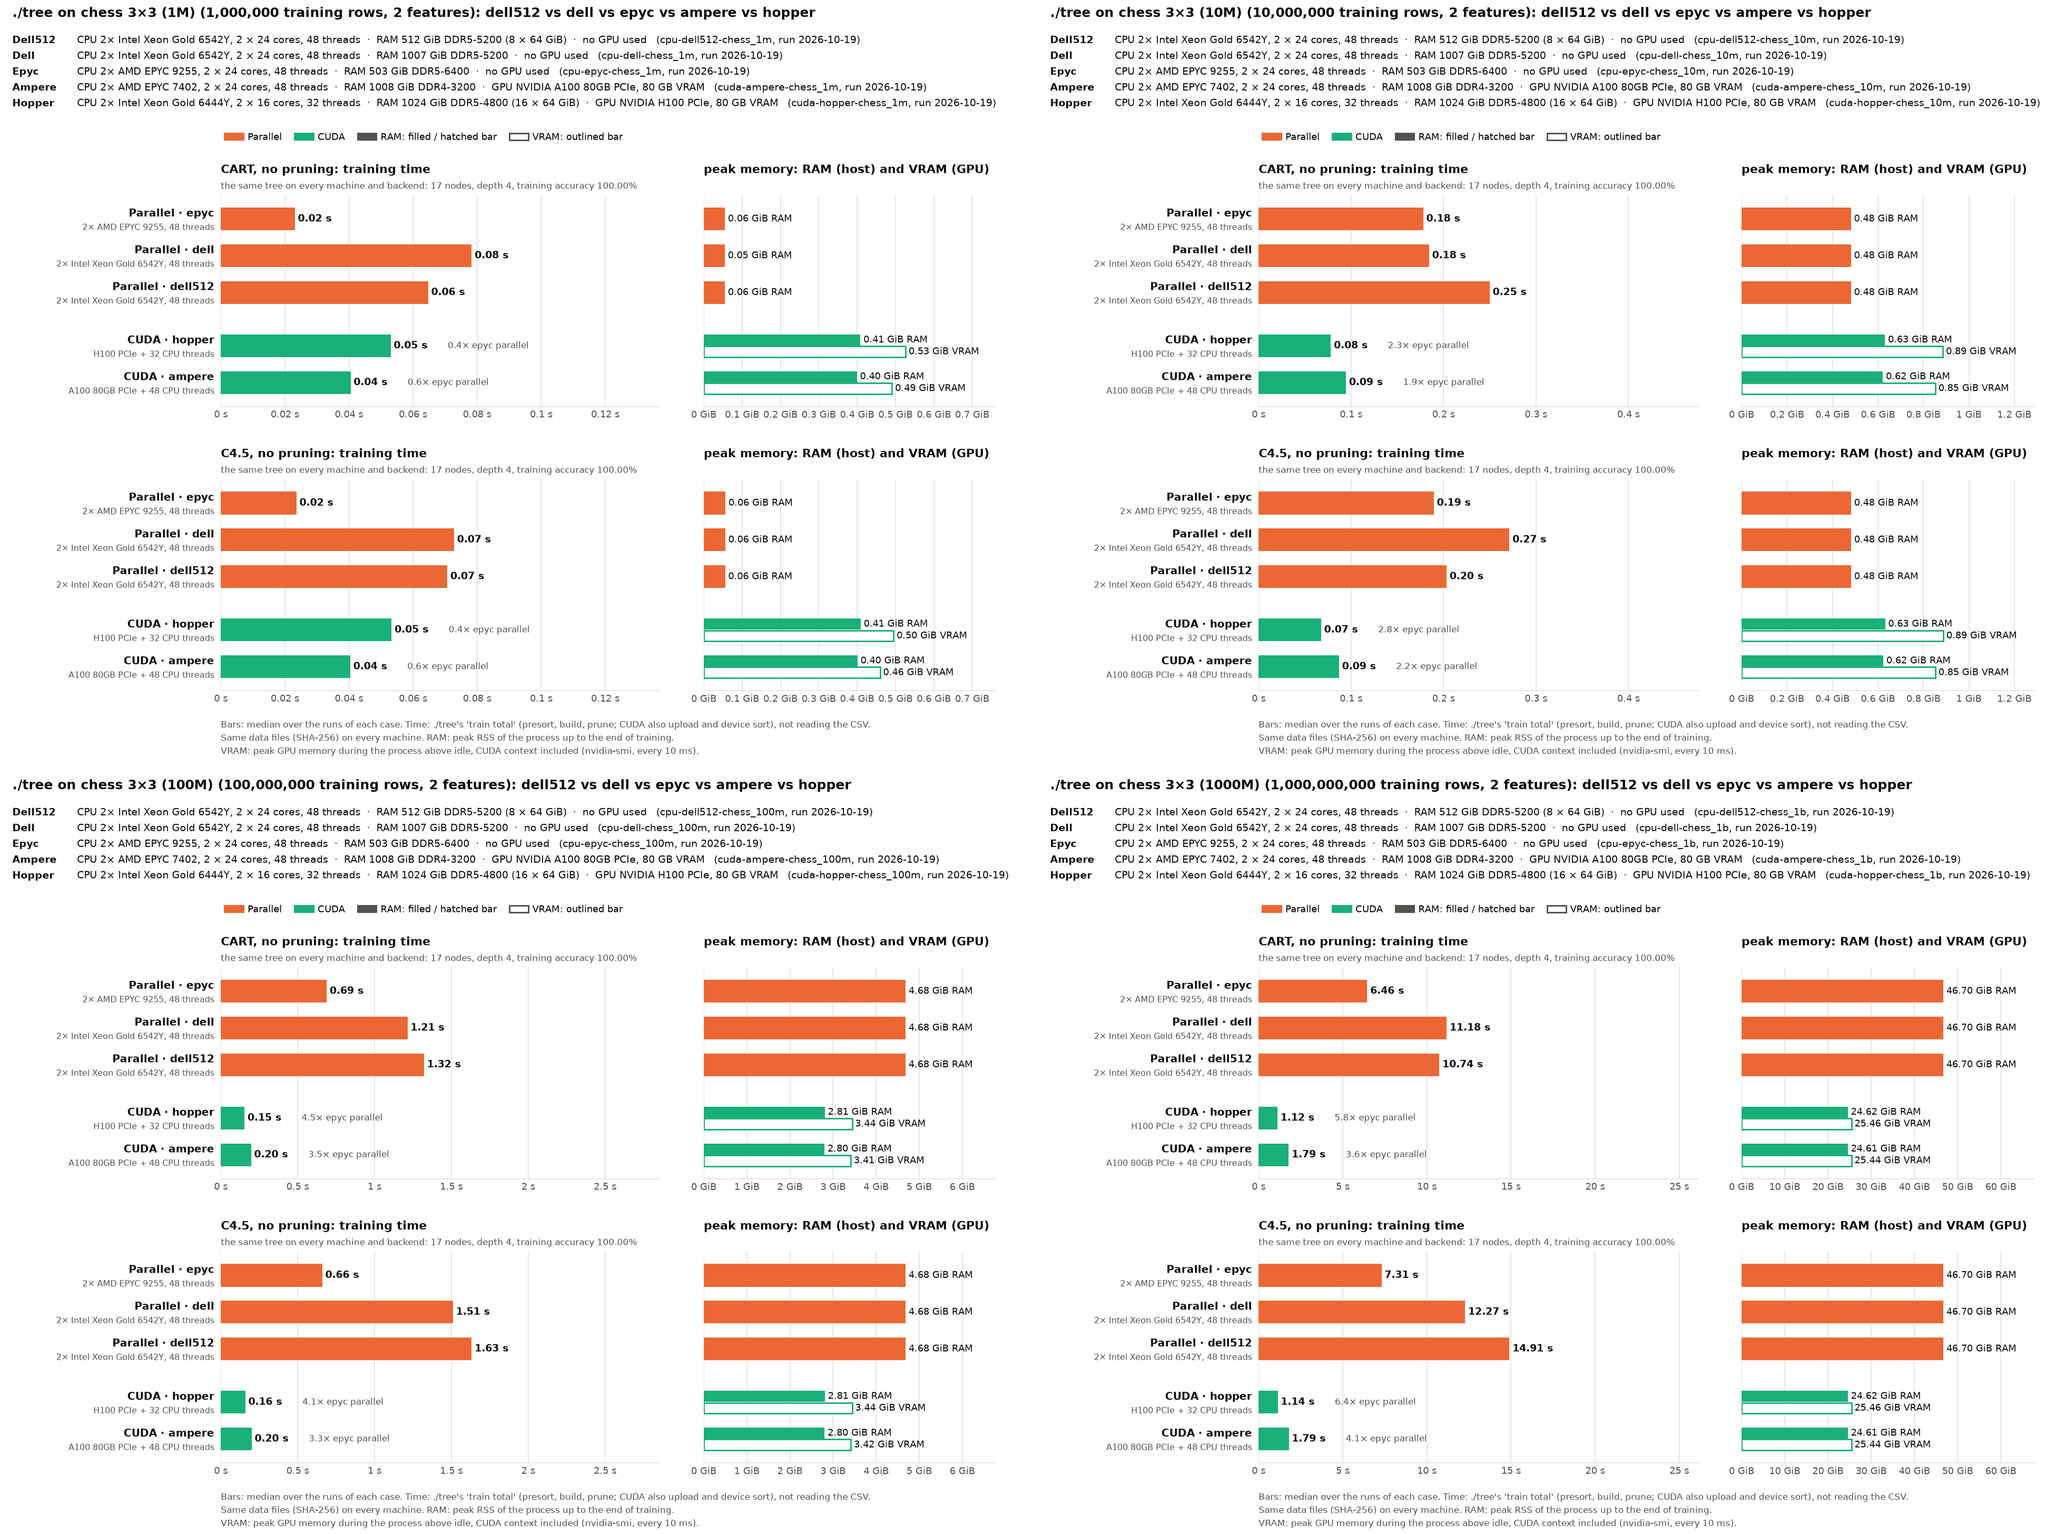
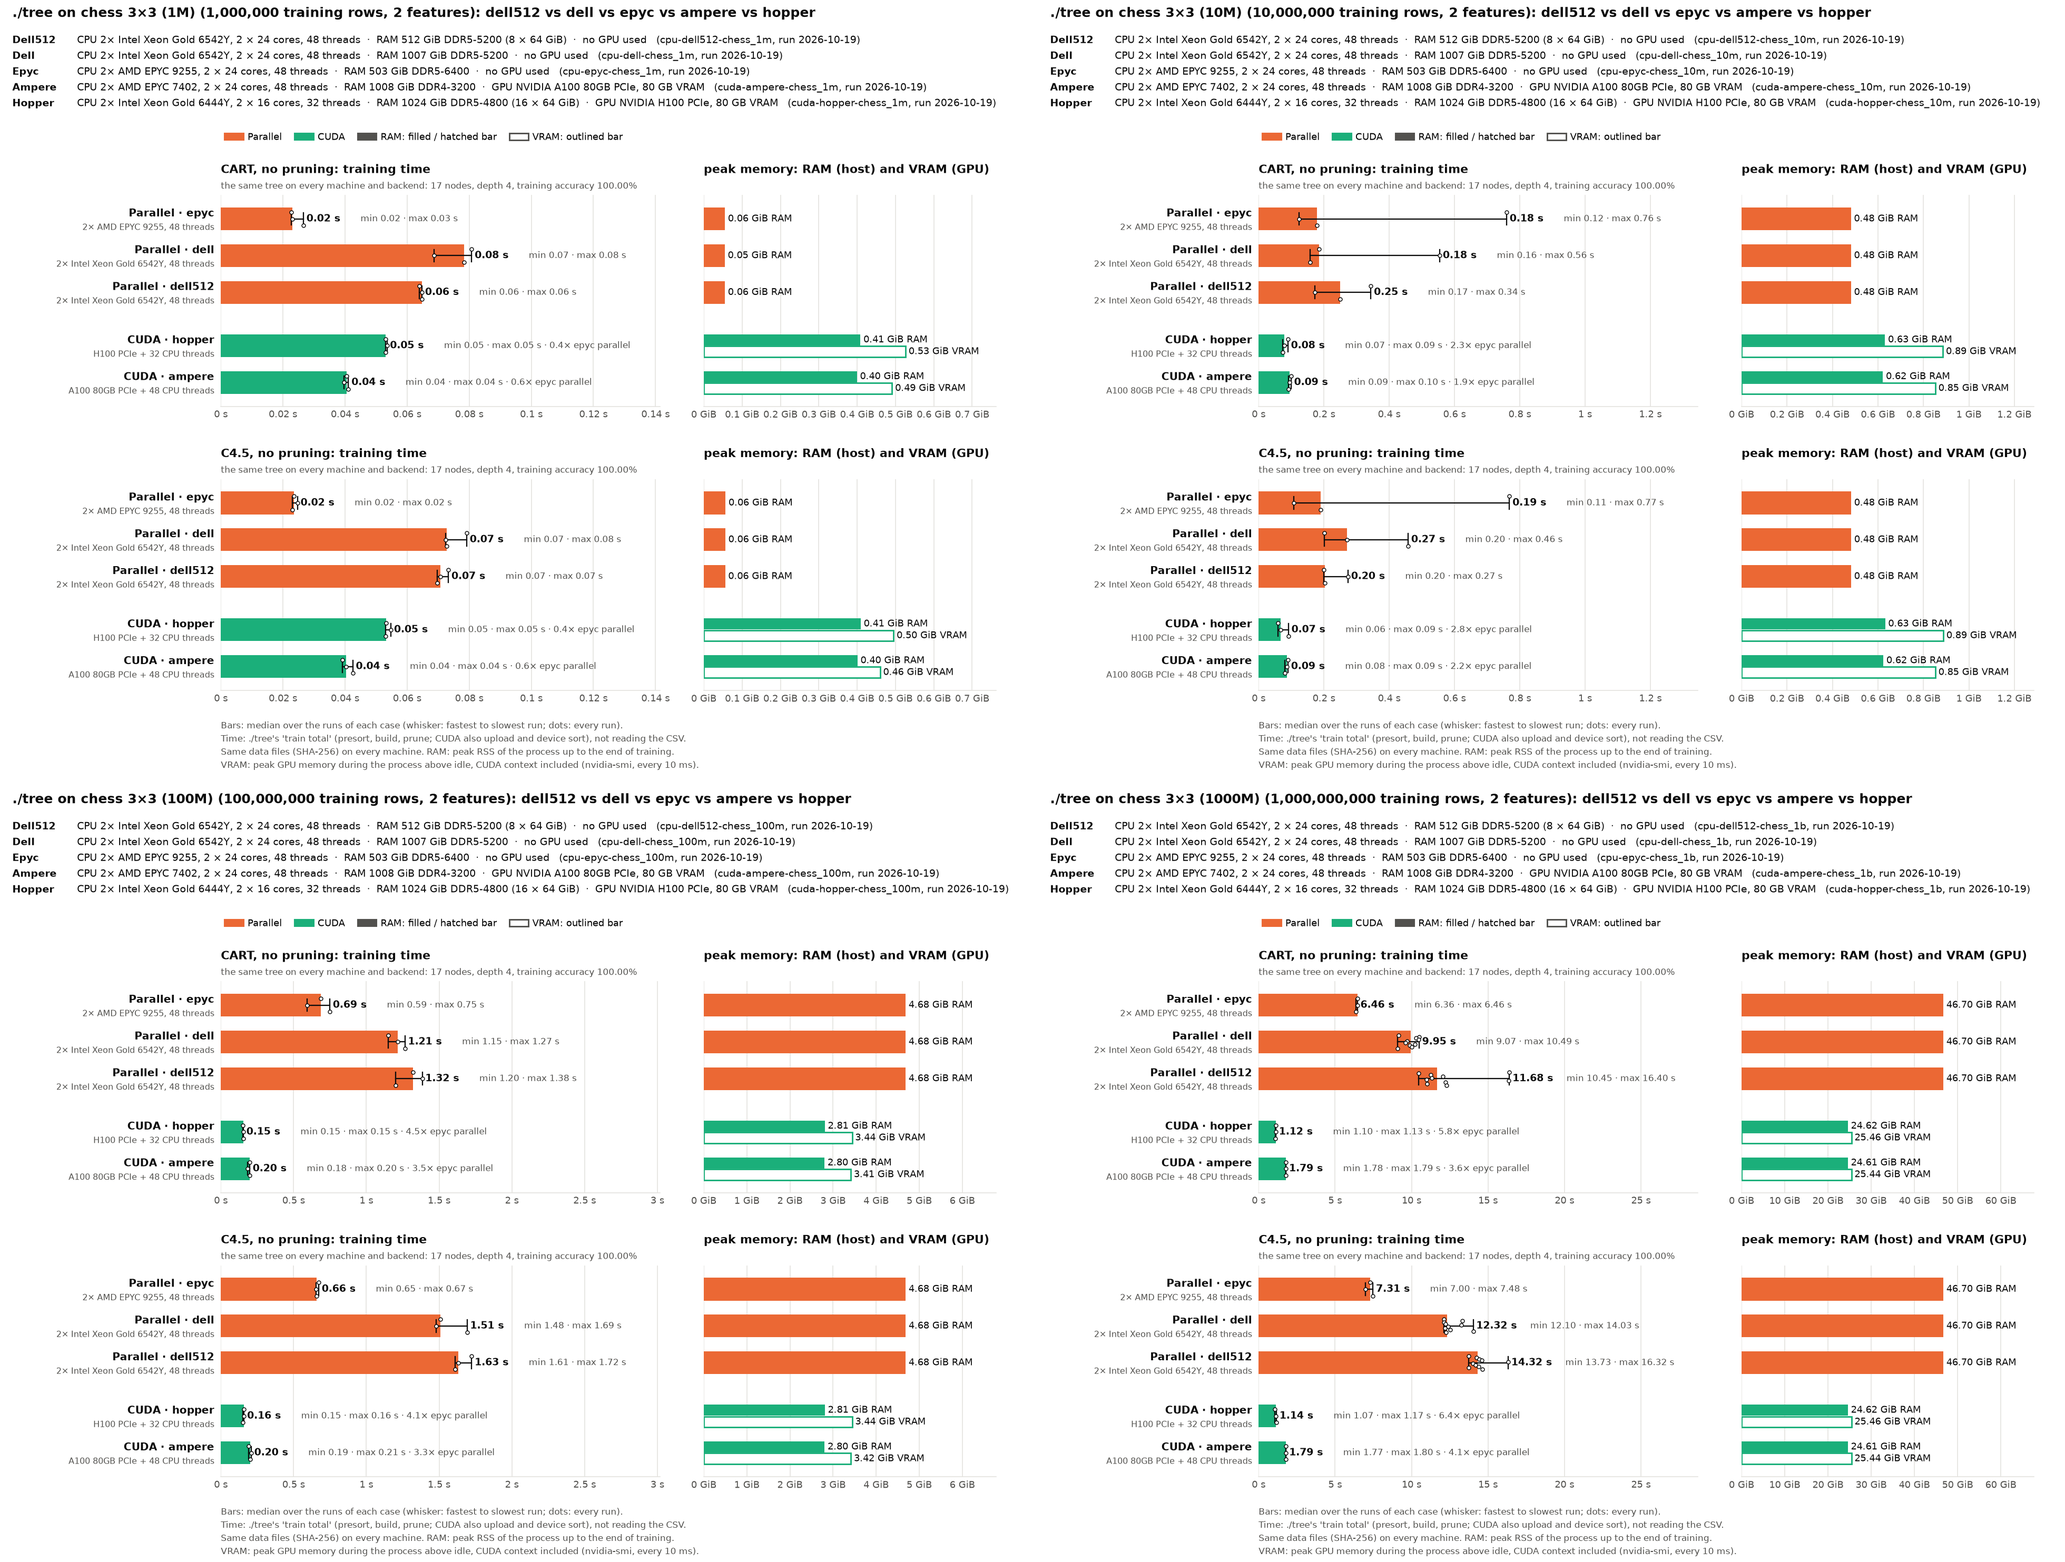
Chess charts with the spread of the runs; dell and dell512 at 1000M from 10 runs
machines_chart.py --spread: a min-max whisker and a dot per run on every
time bar. cluster-chess/chart.png and chart-rows.png take the 10-run
dell-variance results for dell and dell512 at 1000M; BENCHMARK.md's tables
and text follow.

diff --git a/bench/machines_chart.py b/bench/machines_chart.py
@@ -13,6 +13,9 @@ prepared files in plan.json) or did not build the same trees.
   bench/.venv/bin/python bench/machines_chart.py bench/results/cuda-legion-susy \\
       --reference bench/results/cluster-susy-vs-others-cpu/pc  # -> cuda-legion-susy/chart.png
 
+--spread draws on every time bar a whisker from the fastest to the slowest
+run and a dot per run, and writes their min and max.
+
 --more adds the cases of later runs kept in another directory under the same
 run names (e.g. cluster-ecbdl/unpruned/cpu-epyc-ecbdl next to
 cluster-ecbdl/cpu-epyc-ecbdl), so that one chart shows both.
@@ -50,6 +53,7 @@ LEFT = 0.215  # figure fraction left of the panels, for the row labels
 # Result directories are <backend>-<machine>-<dataset>; what to call each machine.
 MACHINES = {"pc": "desktop", "legion": "laptop"}
 MORE = []  # --more: directories with later runs of the same names
+SPREAD = False  # --spread: a min-max whisker and a dot per run on every time bar
 
 
 def sources(run):
@@ -97,6 +101,7 @@ def bars(run, reference):
             out.append({"protocol": protocol, "backend": backend, "hardware": hardware,
                         "run": run, "reference": reference,
                         "time": statistics.median(r["train_seconds"] for r in ok),
+                        "times": [r["train_seconds"] for r in ok],
                         "ram": statistics.median(r["peak_rss_train_bytes"] for r in ok) / 2**30,
                         "vram": statistics.median(gpu) / 2**30 if gpu else None,
                         # Median pruning time, if every run recorded it.
@@ -138,11 +143,15 @@ def main():
     parser.add_argument("--out", type=Path, help="default: <first run>/chart.png")
     parser.add_argument("--protocols", default="cart_alpha,c45",
                         help=f"the protocols to draw, one panel each, of: {', '.join(TITLES)}")
+    parser.add_argument("--spread", action="store_true",
+                        help="draw each time bar's min-max whisker and every run as a dot")
     parser.add_argument("--more", action="append", type=Path, default=[],
                         help="a directory with later runs of the same names, e.g. other "
                         "protocols (repeatable)")
     args = parser.parse_args()
     MORE.extend(args.more)
+    global SPREAD
+    SPREAD = args.spread
     PROTOCOLS.clear()
     PROTOCOLS.update((p, TITLES[p]) for p in args.protocols.split(","))
     runs = list(args.reference) + list(args.runs)
@@ -159,6 +168,7 @@ def main():
     gaps = max(len({e["backend"] for e in entries if e["protocol"] == p}) for p in PROTOCOLS) - 1
     header = 0.42 + 0.2 * len(runs)  # inches of the hardware lines
     footer = 0.18 if any(e["prune"] is not None and not e["reference"] for e in entries) else 0
+    footer += 0.18 if SPREAD else 0  # the footer's line on the whiskers
     # At least three bars high: the row labels take two lines each.
     count = len(PROTOCOLS)
     inches = 1.9 + header + footer + count * 0.58 * max(per_panel + 0.45 * gaps, 3)
@@ -166,11 +176,11 @@ def main():
     # Between the panels: the lower one's title and subtitle and the upper one's
     # tick labels, the same in inches however few bars the panels hold.
     gap = 0.92
-    panels = inches - (header + 1.05) - (1.08 if split else 0.9)
+    panels = inches - (header + 1.05) - (1.08 if split else 0.9) - (0.18 if SPREAD else 0)
     fig, axes = plt.subplots(count, 2, figsize=(13, inches), squeeze=False,
                              gridspec_kw={"width_ratios": [1.5, 1], "wspace": 0.12,
                                           "hspace": gap / ((panels - (count - 1) * gap) / count)})
-    max_time = max(e["time"] for e in entries)
+    max_time = max(max(e["times"]) if SPREAD else e["time"] for e in entries)
     max_gib = max(max(e["ram"], e["vram"] or 0) for e in entries)
     for row, protocol in enumerate(PROTOCOLS):
         ax_time, ax_mem = axes[row]
@@ -223,9 +233,21 @@ def main():
                 fastest = min(others, key=lambda o: times[(o, "parallel")], default=None)
                 notes += [f"{times[(other, 'parallel')] / t:.1f}× {where(other)} parallel"
                           for other in (run, fastest) if (other, "parallel") in times]
-            ax_time.text(t + max_time * 0.012, y, f"{t:.2f} s", va="center", fontsize=9,
+            end = t
+            if SPREAD and len(e["times"]) > 1:
+                low, high = min(e["times"]), max(e["times"])
+                ax_time.plot([low, high], [y, y], color=INK, linewidth=1.1, zorder=3)
+                for x in (low, high):
+                    ax_time.plot([x, x], [y - 0.17, y + 0.17], color=INK, linewidth=1.1, zorder=3)
+                # The runs in run order, spread a little vertically so equal times stay visible.
+                n = len(e["times"])
+                ax_time.scatter(e["times"], [y - 0.18 + 0.36 * k / (n - 1) for k in range(n)],
+                                s=11, color="white", edgecolor=INK, linewidth=0.7, zorder=4)
+                end = max(t, high)
+                notes.insert(0, f"min {low:.2f} · max {high:.2f} s")
+            ax_time.text(end + max_time * 0.012, y, f"{t:.2f} s", va="center", fontsize=9,
                          color=INK, fontweight="bold")
-            ax_time.annotate(" · ".join(notes), (t, y), xytext=(52, 0),
+            ax_time.annotate(" · ".join(notes), (end, y), xytext=(52, 0),
                              textcoords="offset points", va="center", fontsize=8, color=MUTED)
             name = f"{BACKENDS[backend]} · {where(run)}" + (" (reference)" if e["reference"]
                                                             else "")
@@ -292,8 +314,10 @@ def main():
     reps = {json.load(open(source / "machine.json"))["settings"]["reps"]
             for run in runs for source in sources(run)}
     runs_text = "one run per case" if reps == {1} else "median over the runs of each case"
+    if SPREAD and reps != {1}:
+        runs_text += " (whisker: fastest to slowest run; dots: every run).\n"
     fig.text(LEFT, 0.1 / inches,
-             f"Bars: {runs_text}. Time: ./tree's 'train total' (presort, build, prune; CUDA also "
+             f"Bars: {runs_text}{'' if runs_text.endswith(chr(10)) else '. '}Time: ./tree's 'train total' (presort, build, prune; CUDA also "
              "upload and device sort), not reading the CSV."
              + ("\nDarker: growing the tree (setup, presort, build); lighter: pruning it "
                 "(shown when it takes 1% or more)." if split else "")
@@ -302,7 +326,7 @@ def main():
              "memory during the process above idle, CUDA context included (nvidia-smi, every 10 ms).",
              fontsize=8, color=MUTED, linespacing=1.5)
     fig.subplots_adjust(left=LEFT, right=0.97, top=1 - (header + 1.05) / inches,
-                        bottom=(1.08 if split else 0.9) / inches)
+                        bottom=((1.08 if split else 0.9) + (0.18 if SPREAD else 0)) / inches)
     fig.savefig(out, dpi=150, facecolor="white")
     print(out)
 

diff --git a/bench/results/cluster-chess/BENCHMARK.md b/bench/results/cluster-chess/BENCHMARK.md
@@ -3,6 +3,7 @@
 **Status:** three runs per case, all on 2026-10-19.
 - **GPU runs** (hopper, ampere): 17:34–17:42, with commit 2a9d64e on the cluster. On the laptop that is 5058ce1, the same change cherry-picked onto e0a9106. ./tree itself is unchanged since 051949b.
 - **CPU runs** (epyc, dell, dell512): rerun 19:08–19:12 with commit d9da007, which fixes a slowdown at 1000M rows ([below](#the-1000m-slowdown-and-its-fix)). The fix changes only the CPU builder for nodes of at least 2^20 rows with few columns. The CPU subtrees of a CUDA run have at most 4096 rows, so the fix cannot change the GPU runs.
+- **dell and dell512 at 1000M** are the 10-run medians of [the check below](#dell-against-dell512-10-runs-at-1000m), run with 41faca9 (the same CPU code as d9da007). Every other case has 3 runs.
 - **Each node ran alone** and was used whole (`--exclusive`). The four sizes ran one after another on every node, smallest first.
 - **Same trees:** every case built the same tree on every node and backend: 17 nodes (9 leaves), depth 4, 100% training accuracy, at every size. That is the exact tree of a 3×3 board.
 - **Settings:** ./tree's defaults. The trees are grown without pruning (`cart_full_nodepth`, `c45_unpruned`), with no depth limit. Only training time and memory are compared; accuracy is ./tree's training accuracy (`run.py --train-accuracy-only`).
@@ -18,7 +19,11 @@ done
 
 The CPU rerun named only `cpu-epyc-$d cpu-dell-$d cpu-dell512-$d`, without `-a`.
 
-The charts are drawn as shown in the README: `chart.png` (one `machines_chart.py` chart per size, in a 2×2 grid) and `chart-rows.png` (`rows_chart.py`).
+The charts are drawn as shown in the README:
+- `chart.png`: one `machines_chart.py --spread` chart per size, in a 2×2 grid. The bars are medians, the whiskers run from the fastest to the slowest run, and the dots are the single runs.
+- `chart-rows.png`: drawn by `rows_chart.py`.
+
+Both use the 10-run results for dell and dell512 at 1000M.
 
 **The dataset** is a 3×3 checkerboard: two features, x and y, uniform in [0, 3] with six decimals. The class (`A`, `B`) alternates over the nine unit squares (`B` on five of them: 55.5% of the rows), with no noise. Four sizes:
 
@@ -50,16 +55,16 @@ Training time (`train total`: presort and build, on CUDA also GPU setup and uplo
 | CUDA · hopper (H100 PCIe + 32 threads) | 53 ms | **78 ms** | **154 ms** | **1.12 s** |
 | CUDA · ampere (A100 80GB PCIe + 48 threads) | 41 ms | 95 ms | 197 ms | 1.79 s |
 | Parallel · epyc (EPYC 9255, 48 threads) | **23 ms** | 178 ms | 689 ms | 6.46 s |
-| Parallel · dell (Xeon 6542Y, 48 threads) | 78 ms | 184 ms | 1.21 s | 11.18 s |
-| Parallel · dell512 (the same, half the memory channels) | 65 ms | 250 ms | 1.32 s | 10.74 s |
+| Parallel · dell (Xeon 6542Y, 48 threads) | 78 ms | 184 ms | 1.21 s | 9.95 s |
+| Parallel · dell512 (the same, half the memory channels) | 65 ms | 250 ms | 1.32 s | 11.68 s |
 
 | C4.5, no pruning | 1M | 10M | 100M | 1000M |
 |---|--:|--:|--:|--:|
 | CUDA · hopper | 53 ms | **68 ms** | **159 ms** | **1.14 s** |
 | CUDA · ampere | 40 ms | 87 ms | 200 ms | 1.79 s |
 | Parallel · epyc | **24 ms** | 190 ms | 660 ms | 7.31 s |
-| Parallel · dell | 73 ms | 271 ms | 1.51 s | 12.27 s |
-| Parallel · dell512 | 71 ms | 203 ms | 1.63 s | 14.91 s |
+| Parallel · dell | 73 ms | 271 ms | 1.51 s | 12.32 s |
+| Parallel · dell512 | 71 ms | 203 ms | 1.63 s | 14.32 s |
 
 Peak memory (the same for CART and C4.5 within 0.01 GiB):
 
@@ -73,20 +78,20 @@ Peak memory (the same for CART and C4.5 within 0.01 GiB):
   - The H100 is 2.3–2.8× faster than the best CPU server at 10M, 4.1–4.5× at 100M, and **5.8× (CART) to 6.4× (C4.5) at 1000M**. In every case the best CPU server is epyc.
   - The A100 is 3.6–4.1× faster than epyc at 1000M.
 - **The GPU time grows slower than the rows**: 7× from 100M to 1000M on the H100, 9× on the A100. Even 100M rows do not keep a GPU busy; 1000M do.
-- **The CPU time grows with the rows**: 8–11× from 100M to 1000M. The presort grows 10× (epyc 0.20 → 1.91 s, dell 0.54 → 4.39 s), and so does the build (epyc CART 0.47 → 4.55 s, dell 0.69 → 6.65 s).
-- **epyc is 1.7–2.3× faster than dell** from 100M rows on, as on the other datasets.
+- **The CPU time grows with the rows**: 8–11× from 100M to 1000M. The presort grows 10× (epyc 0.20 → 1.91 s, dell 0.54 → 4.39 s), and so does the build (epyc CART 0.47 → 4.55 s, dell 0.69 → 5.61 s).
+- **epyc is 1.5–2.3× faster than dell** from 100M rows on, as on the other datasets.
 - **dell512 against dell:** with 3 runs per case, from 25% less time to 36% more (both at 10M, where the runs are noisy). With 10 runs at 1000M, **dell is faster in every phase, by 14–17%** ([below](#dell-against-dell512-10-runs-at-1000m)).
 - **Memory is linear in the rows:** 50 bytes per row on the CPU servers (46.7 GiB for 1000M rows, 2 G values: 25 bytes per value) and 27 bytes per row of VRAM (25.5 GiB of the 80 GB). Every size fits on every GPU; the 40 GB A100s of ampere would hold the 1000M set too. A CUDA run needs about half the host RAM of a CPU run (24.6 GiB at 1000M).
 
 ## The 1000M slowdown and its fix
 
-**Before the fix**, the CPU time grew 13–41× from 100M to 1000M rows, 10× the rows. With commit 2a9d64e the times were (3 runs, median):
+**Before the fix**, the CPU time grew 13–41× from 100M to 1000M rows, 10× the rows. The times before and after (median; after at 1000M on dell and dell512: 10 runs, otherwise 3):
 
 | Before (2a9d64e) → after (d9da007) | 100M CART | 100M C4.5 | 1000M CART | 1000M C4.5 |
 |---|--:|--:|--:|--:|
 | epyc | 1.15 → 0.69 s | 1.35 → 0.66 s | 47.19 → **6.46 s** (7.3×) | 40.98 → **7.31 s** (5.6×) |
-| dell | 2.43 → 1.21 s | 3.47 → 1.51 s | 34.20 → **11.18 s** (3.1×) | 43.33 → **12.27 s** (3.5×) |
-| dell512 | 2.75 → 1.32 s | 3.18 → 1.63 s | 36.00 → **10.74 s** (3.4×) | 48.32 → **14.91 s** (3.2×) |
+| dell | 2.43 → 1.21 s | 3.47 → 1.51 s | 34.20 → **9.95 s** (3.4×) | 43.33 → **12.32 s** (3.5×) |
+| dell512 | 2.75 → 1.32 s | 3.18 → 1.63 s | 36.00 → **11.68 s** (3.1×) | 48.32 → **14.32 s** (3.4×) |
 
 **The cause** was the partition of the big nodes.
 - A node of the CPU builder is split by moving every column except the winner's into its children. Normally each column is moved by one thread, fused with the children's sweep.

diff --git a/bench/cluster/README.md b/bench/cluster/README.md
@@ -81,16 +81,19 @@ for d in chess_1m chess_10m chess_100m chess_1b; do
       cuda-hopper-$d cuda-ampere-$d cpu-epyc-$d cpu-dell-$d cpu-dell512-$d
 done
 d=bench/results/cluster-chess
+v=$d/dell-variance  # dell and dell512 at 1000M: the 10-run check (BENCHMARK.md)
 t=$(mktemp -d)
 for s in 1m 10m 100m 1b; do
-  bench/.venv/bin/python bench/machines_chart.py --protocols cart_full_nodepth,c45_unpruned \
-      $d/cuda-hopper-chess_$s $d/cuda-ampere-chess_$s $d/cpu-epyc-chess_$s \
-      $d/cpu-dell-chess_$s $d/cpu-dell512-chess_$s --out $t/$s.png
+  dell="$d/cpu-dell-chess_$s $d/cpu-dell512-chess_$s"
+  [ $s = 1b ] && dell="$v/cpu-dell-chess_1b $v/cpu-dell512-chess_1b"
+  bench/.venv/bin/python bench/machines_chart.py --spread --protocols cart_full_nodepth,c45_unpruned \
+      $d/cuda-hopper-chess_$s $d/cuda-ampere-chess_$s $d/cpu-epyc-chess_$s $dell --out $t/$s.png
 done
 bench/.venv/bin/python bench/grid_chart.py $t/1m.png $t/10m.png $t/100m.png $t/1b.png --out $d/chart.png
 rm -r $t
 bench/.venv/bin/python bench/rows_chart.py --protocols cart_full_nodepth,c45_unpruned \
-    $d/{cuda-hopper,cuda-ampere,cpu-epyc,cpu-dell,cpu-dell512}-chess_* --out $d/chart-rows.png
+    $d/{cuda-hopper,cuda-ampere,cpu-epyc}-chess_* $d/{cpu-dell,cpu-dell512}-chess_{1m,10m,100m} \
+    $v/cpu-dell-chess_1b $v/cpu-dell512-chess_1b --out $d/chart-rows.png
 ```
 
 The unpruned airline run and its chart (pruned and unpruned side by side in one image):
